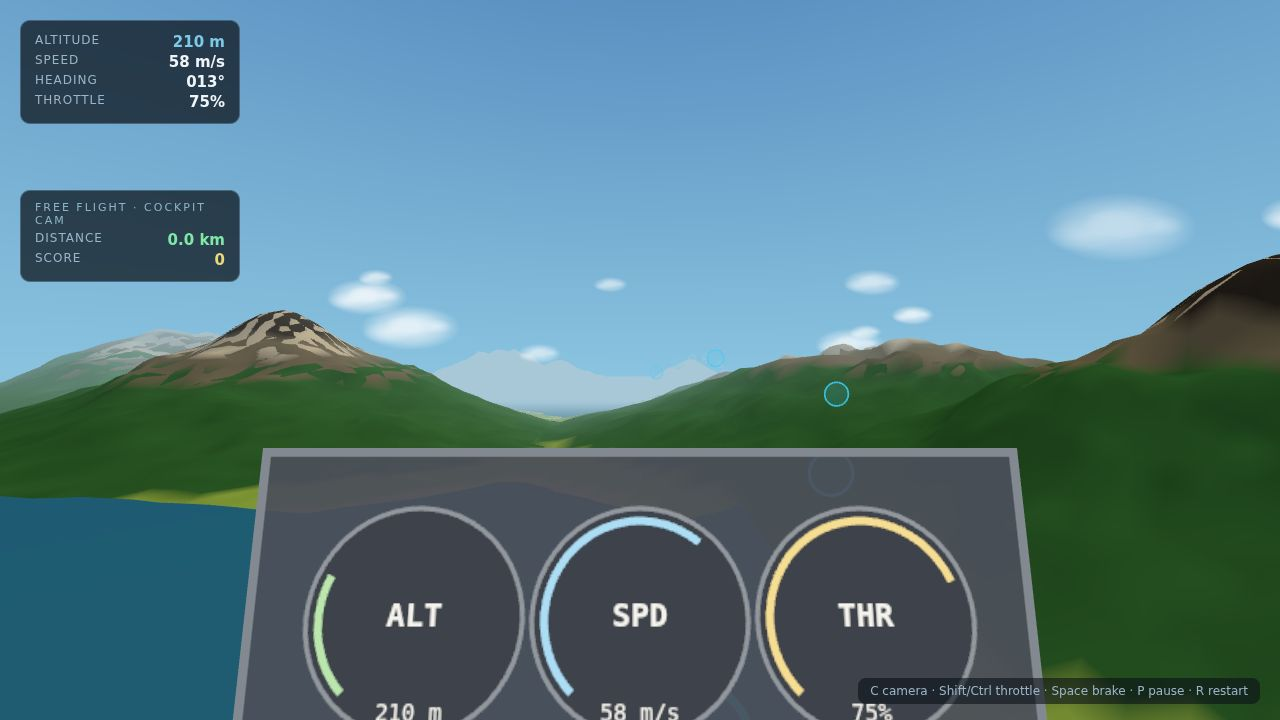
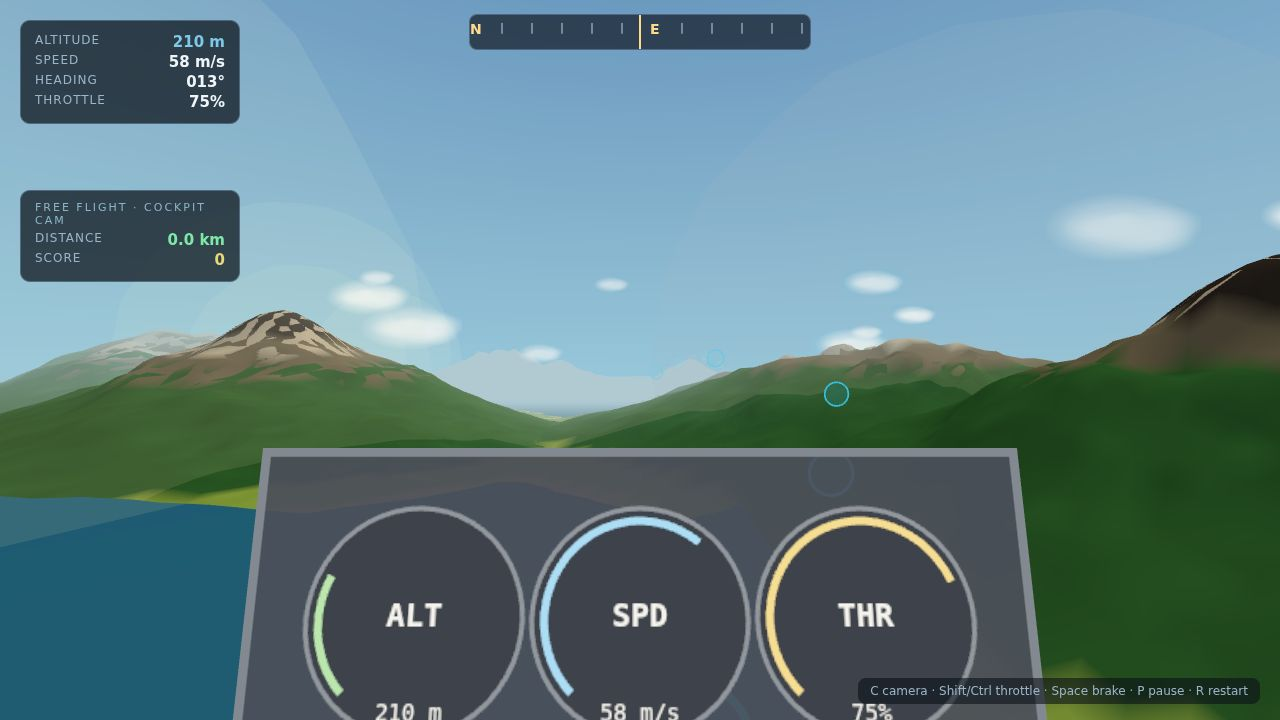
Add weather, smoke, compass, settings and flight stats

diff --git a/game/src/main.js b/game/src/main.js
@@ -16,6 +16,11 @@ import { Input } from './input.js';
 import { buildVegetation } from './vegetation.js';
 import { buildBirds } from './birds.js';
 import { TrailSystem } from './trails.js';
+import { WeatherSystem } from './weather.js';
+import { SmokeSystem } from './smoke.js';
+import { CompassTape } from './compass.js';
+import { SettingsPanel } from './settings.js';
+import { recordFlight, summaryLines } from './stats.js';
 
 const params = new URLSearchParams(location.search);
 const shotMode = params.get('shot');
@@ -42,6 +47,12 @@ const ocean = buildOcean(scene);
 buildVegetation(scene, seed);
 const birds = buildBirds(scene, seed);
 const trails = new TrailSystem(scene);
+const weather = new WeatherSystem(scene, seed);
+const smoke = new SmokeSystem(scene);
+const compass = new CompassTape();
+document.body.appendChild(compass.root);
+const settingsPanel = new SettingsPanel((s) => { sfx.enabled = s.sound; });
+let settingsOpen = false;
 const aircraft = buildAircraft();
 scene.add(aircraft);
 const rig = new CameraRig(camera);
@@ -57,6 +68,8 @@ let rings = null;
 let paused = false;
 let camMode = 'chase';
 let time = 0;
+const stats = { maxAltitude: 0, topSpeed: 0 };
+let hudWeatherTag = '';
 const input = new Input();
 
 function startGame(m) {
@@ -79,11 +92,18 @@ function endGame() {
   state = 'end';
   sfx.stopEngine();
   hud.show();
+  recordFlight({
+    distanceKm: flight.distanceFlown / 1000,
+    maxAltitude: stats.maxAltitude,
+    topSpeed: stats.topSpeed,
+    landings: mode === 'landing' && mission.won ? 1 : 0,
+  });
   const title = mission.won ? 'MISSION COMPLETE' : flight.crashed ? 'CRASHED' : 'TIME UP';
   const detail = mission.landing
     ? `Touchdown ${mission.landing.speed} m/s · sink rate ${mission.landing.vSpeed} m/s · ${mission.landing.onRunway ? 'on the runway' : 'off the runway'}`
     : mode === 'rings' ? `${mission.nextRing} of ${CONFIG.ringCount} rings flown` : 'Sortie complete.';
-  hud.overlay(title, `${detail}<br>Score: <b style="color:#ffd98a">${mission.score}</b> · Distance ${(flight.distanceFlown / 1000).toFixed(1)} km`,
+  hud.overlay(title, `${detail}<br>Score: <b style="color:#ffd98a">${mission.score}</b> · Distance ${(flight.distanceFlown / 1000).toFixed(1)} km
+    <div style="margin-top:10px;font-size:14px;color:#9ab4c8;">${summaryLines()}</div>`,
     'Press ENTER to return to the menu');
 }
 
@@ -96,6 +116,12 @@ function update(dt) {
   if (paused) return;
   if (input.restartPressed()) { paused = false; startGame(mode); return; }
   if (input.cameraTogglePressed()) camMode = camMode === 'chase' ? 'cockpit' : 'chase';
+
+  // Track flight records and atmosphere for the end screen.
+  stats.maxAltitude = Math.max(stats.maxAltitude, flight.pos.y);
+  stats.topSpeed = Math.max(stats.topSpeed, flight.speed);
+  const kind = weather.update(dt, flight.pos);
+  hudWeatherTag = kind ? kind.name.toUpperCase() : '';
 
   updateFlight(flight, input, dt);
   mission.update(dt, flight, rings ?? []);
@@ -127,7 +153,13 @@ function draw() {
     }
     rig.update(0.016, flight, aircraft);
     if (rig.mode === 'cockpit') rig.drawPanel(flight);
-    hud.draw(flight, mission, mode, rig.mode);
+    compass.draw(flight.heading);
+    compass.show(true);
+    // Engine smoke when pushed hard; dust while rolling on ground.
+    const eng = new THREE.Vector3(0, 0, -4.2).applyQuaternion(flight.quat).add(flight.pos);
+    const wheels = flight.onGround ? new THREE.Vector3(flight.pos.x, flight.pos.y - 1.6, flight.pos.z) : null;
+    smoke.update(0.016, eng, flight.throttle > 0.8, wheels);
+    hud.draw(flight, mission, mode, rig.mode, hudWeatherTag);
   }
   renderer.render(scene, camera);
 }
@@ -190,7 +222,11 @@ window.addEventListener('resize', () => {
 
 // Menu keys / end keys are handled here for the state machine.
 window.addEventListener('keydown', (e) => {
+  if (e.code === 'KeyS' && state === 'menu') { settingsPanel.toggle(); return; }
   if (state === 'menu' && ['Digit1', 'Digit2', 'Digit3'].includes(e.code)) {
+    settingsPanel.hide();
+    camMode = settingsPanel.settings.startCamera;
+    stats.maxAltitude = 0; stats.topSpeed = 0;
     startGame(CONFIG.modes[Number(e.code.slice(-1)) - 1]);
   } else if (state === 'end' && (e.code === 'Enter' || e.code === 'KeyR')) {
     state = 'menu';

diff --git a/game/src/settings.js b/game/src/settings.js
@@ -1,0 +1,75 @@
+// SKYBOUND — settings: persistent options (sound on/off, camera default, quality)
+// stored in localStorage, with a small panel toggled from the menu with the S key.
+const KEY = 'skybound.settings';
+
+const defaults = {
+  sound: true,
+  startCamera: 'chase',      // 'chase' | 'cockpit'
+  clouds: true,              // toggle cloud sprites for weaker machines
+};
+
+export function loadSettings() {
+  try {
+    return { ...defaults, ...JSON.parse(localStorage.getItem(KEY) || '{}') };
+  } catch {
+    return { ...defaults };
+  }
+}
+
+export function saveSettings(s) {
+  try { localStorage.setItem(KEY, JSON.stringify(s)); } catch { /* private mode */ }
+}
+
+export class SettingsPanel {
+  constructor(onChange) {
+    this.settings = loadSettings();
+    this.onChange = onChange;
+    this.root = document.createElement('div');
+    this.root.id = 'settings';
+    this.root.style.cssText = `position:absolute;left:50%;top:50%;transform:translate(-50%,-50%);
+      display:none;pointer-events:auto;background:rgba(14,22,32,0.94);
+      border:1px solid rgba(140,180,220,0.4);border-radius:14px;padding:26px 34px;
+      font-family:'Segoe UI',system-ui,sans-serif;color:#eef4f8;text-align:center;`;
+    document.body.appendChild(this.root);
+    this.render();
+  }
+
+  toggle() {
+    const show = this.root.style.display !== 'block';
+    this.root.style.display = show ? 'block' : 'none';
+  }
+
+  hide() { this.root.style.display = 'none'; }
+
+  render() {
+    const s = this.settings;
+    const row = (label, key, on) => `
+      <div data-key="${key}" class="skybound-toggle" style="cursor:pointer;margin:8px 0;
+        display:flex;justify-content:space-between;gap:40px;align-items:center;">
+        <span style="font-size:15px;">${label}</span>
+        <span style="font-weight:800;color:${on ? '#7ee8a8' : '#ff9a7a'};">${on ? 'ON' : 'OFF'}</span>
+      </div>`;
+    this.root.innerHTML = `
+      <div style="font-size:20px;font-weight:800;color:#ffd98a;margin-bottom:12px;">SETTINGS</div>
+      ${row('Sound effects', 'sound', s.sound)}
+      ${row('Clouds', 'clouds', s.clouds)}
+      <div style="margin-top:10px;font-size:13px;color:#9ab4c8;">
+        Start camera: <b style="color:#7ec9e8;">${s.startCamera.toUpperCase()}</b> (click to switch)</div>
+      <div data-key="startCamera" class="skybound-toggle" style="cursor:pointer;margin-top:6px;
+        font-size:13px;color:#7ee8a8;">switch start camera</div>
+      <div style="margin-top:14px;font-size:12px;color:#9ab4c8;">S closes · saved automatically</div>`;
+    this.root.querySelectorAll('.skybound-toggle').forEach(el => {
+      el.addEventListener('click', () => {
+        const key = el.dataset.key;
+        if (key === 'startCamera') {
+          s.startCamera = s.startCamera === 'chase' ? 'cockpit' : 'chase';
+        } else {
+          s[key] = !s[key];
+        }
+        saveSettings(s);
+        this.render();
+        this.onChange(s);
+      });
+    });
+  }
+}

diff --git a/game/src/weather.js b/game/src/weather.js
@@ -1,0 +1,54 @@
+// SKYBOUND — weather: drifting weather cells that change wind, cloud density and
+// light scattering as you fly through them. Purely atmospheric: it never blocks play.
+import * as THREE from 'three';
+import { makeRng } from './random.js';
+
+// A weather cell: a soft dome of tinted haze the aircraft can fly through.
+function cellMesh(color, radius) {
+  const geo = new THREE.SphereGeometry(radius, 12, 10);
+  const mat = new THREE.MeshBasicMaterial({
+    color, transparent: true, opacity: 0.12, side: THREE.BackSide, depthWrite: false, fog: false,
+  });
+  return new THREE.Mesh(geo, mat);
+}
+
+export class WeatherSystem {
+  constructor(scene, seed) {
+    const rng = makeRng(seed + 4242);
+    this.cells = [];
+    const kinds = [
+      { name: 'clear', tint: 0xffffff, wind: 2 },
+      { name: 'humid', tint: 0xcfe8dd, wind: 5 },
+      { name: 'golden', tint: 0xf2d8a8, wind: 4 },
+      { name: 'stormy', tint: 0x9fb2c8, wind: 9 },
+    ];
+    for (let i = 0; i < 7; i++) {
+      const kind = kinds[Math.floor(rng() * kinds.length)];
+      const radius = 500 + rng() * 700;
+      const mesh = cellMesh(kind.tint, radius);
+      mesh.position.set((rng() - 0.5) * 6000, 120 + rng() * 160, (rng() - 0.5) * 6000);
+      scene.add(mesh);
+      this.cells.push({ mesh, kind, radius, drift: new THREE.Vector3((rng() - 0.5) * 3, 0, (rng() - 0.5) * 3) });
+    }
+    this.current = null;
+    this.wind = new THREE.Vector3(2, 0, 0);
+  }
+
+  // Returns the active weather kind when the aircraft sits inside a cell.
+  update(dt, planePos) {
+    this.current = null;
+    for (const cell of this.cells) {
+      cell.mesh.position.addScaledVector(cell.drift, dt);
+      const d = cell.mesh.position.distanceTo(planePos);
+      if (d < cell.radius) this.current = cell.kind;
+    }
+    // Ease the global wind toward the active cell's wind vector.
+    if (this.current) {
+      const target = new THREE.Vector3(this.current.wind, 0, -this.current.wind * 0.4);
+      this.wind.lerp(target, Math.min(1, dt * 0.5));
+    } else {
+      this.wind.lerp(new THREE.Vector3(2, 0, 0), Math.min(1, dt * 0.3));
+    }
+    return this.current;
+  }
+}

diff --git a/game/src/smoke.js b/game/src/smoke.js
@@ -1,0 +1,66 @@
+// SKYBOUND — smoke: engine puffs when the throttle is high, and a dust burst on touchdown.
+// A tiny pool of sprite puffs is recycled; nothing is allocated per frame.
+import * as THREE from 'three';
+
+const POOL = 36;
+
+function puffTexture() {
+  const cv = document.createElement('canvas');
+  cv.width = cv.height = 64;
+  const g = cv.getContext('2d');
+  const grad = g.createRadialGradient(32, 32, 4, 32, 32, 30);
+  grad.addColorStop(0, 'rgba(210,210,215,0.7)');
+  grad.addColorStop(1, 'rgba(210,210,215,0)');
+  g.fillStyle = grad;
+  g.fillRect(0, 0, 64, 64);
+  return new THREE.CanvasTexture(cv);
+}
+
+export class SmokeSystem {
+  constructor(scene) {
+    this.scene = scene;
+    const tex = puffTexture();
+    this.pool = [];
+    for (let i = 0; i < POOL; i++) {
+      const mat = new THREE.SpriteMaterial({ map: tex, transparent: true, opacity: 0, depthWrite: false });
+      const s = new THREE.Sprite(mat);
+      s.visible = false;
+      scene.add(s);
+      this.pool.push({ sprite: s, life: 0, rise: 1 });
+    }
+    this.next = 0;
+    this.clock = 0;
+  }
+
+  spawn(pos, scale, rise) {
+    const p = this.pool[this.next];
+    this.next = (this.next + 1) % POOL;
+    p.sprite.visible = true;
+    p.sprite.position.copy(pos);
+    p.sprite.scale.setScalar(scale);
+    p.sprite.material.opacity = 0.45;
+    p.life = 1.4;
+    p.rise = rise;
+  }
+
+  // enginePos: behind the cowling; emitting: throttle high; dustAt: wheel pos on ground.
+  update(dt, enginePos, emitting, dustAt) {
+    this.clock += dt;
+    if (emitting && this.clock > 0.09) {
+      this.clock = 0;
+      this.spawn(enginePos, 1.6 + Math.random() * 0.8, 2.2);
+    }
+    if (dustAt && this.clock > 0.05) {
+      this.spawn(dustAt, 2.4 + Math.random() * 1.2, 0.8);
+    }
+    for (const p of this.pool) {
+      if (p.life <= 0) continue;
+      p.life -= dt;
+      if (p.life <= 0) { p.sprite.visible = false; continue; }
+      const t = p.life / 1.4;
+      p.sprite.material.opacity = 0.45 * t;
+      p.sprite.position.y += p.rise * dt;
+      p.sprite.scale.multiplyScalar(1 + dt * 0.9);
+    }
+  }
+}

diff --git a/game/src/compass.js b/game/src/compass.js
@@ -1,0 +1,43 @@
+// SKYBOUND — compass: a horizontal heading tape rendered as a DOM strip at the top centre.
+// Ticks every 15°, cardinal letters, and a caret marking the current heading.
+export class CompassTape {
+  constructor() {
+    this.root = document.createElement('div');
+    this.root.id = 'compass';
+    this.root.style.cssText = `position:absolute;left:50%;top:14px;transform:translateX(-50%);
+      width:340px;height:34px;overflow:hidden;pointer-events:none;
+      background:rgba(10,16,24,0.65);border:1px solid rgba(140,180,220,0.35);border-radius:8px;`;
+    this.strip = document.createElement('div');
+    this.strip.style.cssText = `position:absolute;top:0;height:100%;white-space:nowrap;
+      font:600 13px 'Segoe UI',system-ui,sans-serif;color:#dfe9f2;`;
+    this.root.appendChild(this.strip);
+    this.caret = document.createElement('div');
+    this.caret.style.cssText = `position:absolute;left:50%;top:0;width:2px;height:100%;
+      background:#ffd98a;transform:translateX(-1px);`;
+    this.root.appendChild(this.caret);
+    // Build the tick strip once: three copies for seamless wrap.
+    const names = { 0: 'N', 90: 'E', 180: 'S', 270: 'W' };
+    let html = '';
+    for (let copy = 0; copy < 3; copy++) {
+      for (let d = 0; d < 360; d += 15) {
+        const big = d % 90 === 0;
+        html += `<span style="position:absolute;left:${copy * 360 + d * 2}px;top:6px;
+          font-size:${big ? 14 : 11}px;color:${big ? '#ffd98a' : '#9ab4c8'};">
+          ${big ? names[d] : '|'}</span>`;
+      }
+    }
+    this.strip.innerHTML = html;
+    this.hdg = 0;
+  }
+
+  // heading in radians (0 = north, clockwise).
+  draw(heading) {
+    const deg = ((heading * 180 / Math.PI) % 360 + 360) % 360;
+    this.hdg = deg;
+    // Slide the strip so the current heading sits under the caret.
+    const px = deg * 2;                    // 2px per degree
+    this.strip.style.transform = `translateX(${170 - px - 360}px)`;
+  }
+
+  show(visible) { this.root.style.display = visible ? 'block' : 'none'; }
+}

diff --git a/game/src/hud.js b/game/src/hud.js
@@ -27,7 +27,7 @@ export class Hud {
       <span style="font-weight:700;color:${color};font-variant-numeric:tabular-nums;">${value}</span></div>`;
   }
 
-  draw(flight, mission, mode, camMode) {
+  draw(flight, mission, mode, camMode, weatherTag = '') {
     const hdg = ((flight.heading * 180 / Math.PI) % 360 + 360) % 360;
     const stall = flight.stalled ? `<div style="color:#ff6a5a;font-weight:800;text-align:center;
       animation:none;margin-top:4px;">⚠ STALL</div>` : '';
@@ -45,7 +45,7 @@ export class Hud {
         ${stall}
       `)}
       ${this.panel('20px', '190px', `
-        <div style="font-size:11px;letter-spacing:2px;color:#8ab4c8;margin-bottom:4px;">${CONFIG.modeNames[mode]} · ${camMode.toUpperCase()} CAM</div>
+        <div style="font-size:11px;letter-spacing:2px;color:#8ab4c8;margin-bottom:4px;">${CONFIG.modeNames[mode]} · ${camMode.toUpperCase()} CAM${weatherTag ? ` · <span style="color:#cfe0ec;">${weatherTag}</span>` : ''}</div>
         ${objective}
         ${this.row('SCORE', String(mission.score), '#e8d87a')}
         ${mission.message ? `<div style="color:#7ee8a8;font-weight:700;font-size:14px;margin-top:4px;">${mission.message}</div>` : ''}

diff --git a/game/src/stats.js b/game/src/stats.js
@@ -1,0 +1,32 @@
+// SKYBOUND — stats: flight log kept per session, shown on the end screen.
+// Tracks a few simple records so free flight has a sense of progression.
+const KEY = 'skybound.stats';
+
+function load() {
+  try { return JSON.parse(localStorage.getItem(KEY) || '{}'); } catch { return {}; }
+}
+
+function save(s) {
+  try { localStorage.setItem(KEY, JSON.stringify(s)); } catch { /* private mode */ }
+}
+
+export function recordFlight({ distanceKm, maxAltitude, topSpeed, landings }) {
+  const s = load();
+  s.flights = (s.flights || 0) + 1;
+  s.totalKm = Math.round(((s.totalKm || 0) + distanceKm) * 10) / 10;
+  s.bestAltitude = Math.max(s.bestAltitude || 0, Math.round(maxAltitude));
+  s.topSpeed = Math.max(s.topSpeed || 0, Math.round(topSpeed));
+  s.landings = (s.landings || 0) + (landings || 0);
+  save(s);
+  return s;
+}
+
+export function summaryLines() {
+  const s = load();
+  if (!s.flights) return 'No flights logged yet.';
+  return [
+    `${s.flights} flights · ${s.totalKm} km total`,
+    `best altitude ${s.bestAltitude} m · top speed ${s.topSpeed} m/s`,
+    `${s.landings} landing${s.landings === 1 ? '' : 's'} logged`,
+  ].join('<br>');
+}
